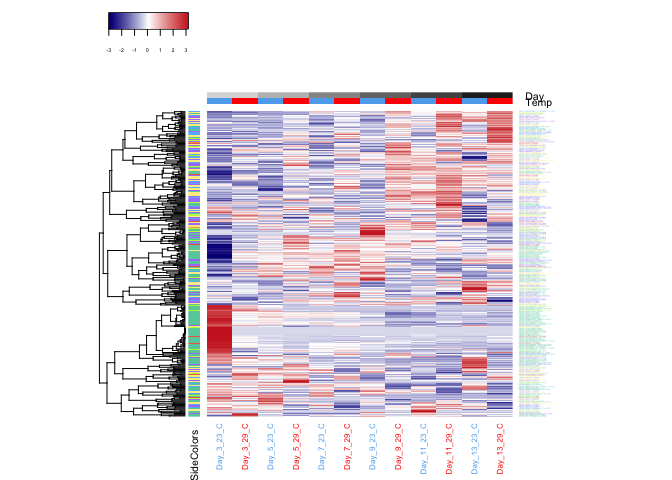
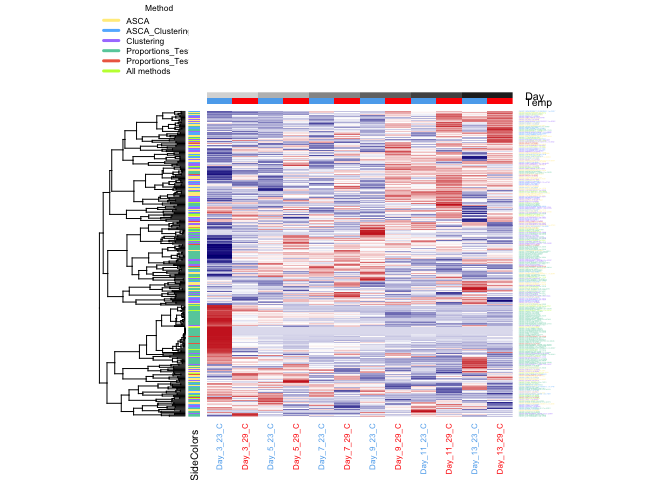
updated venn diagram and heatmap

Changed region(s): [[0.1562, 0.0, 0.2812, 0.1562]]

diff --git a/analysis/UniprotAnnotations_NetworkAnalysis/VerifyStatsProteinSelection/VerifyStatsProteinSelection_noDay0.md b/analysis/UniprotAnnotations_NetworkAnalysis/VerifyStatsProteinSelection/VerifyStatsProteinSelection_noDay0.md
@@ -97,50 +97,24 @@ read in and format avg NSAF data
 
 ![](VerifyStatsProteinSelection_noDay0_files/figure-markdown_github/unnamed-chunk-18-1.png)
 
-    ## quartz_off_screen 
-    ##                 2
+ordered by temperature then day ![](VerifyStatsProteinSelection_noDay0_files/figure-markdown_github/unnamed-chunk-19-1.png)
 
-ordered by temperature then day
+**CREATE HEATMAP OF ASCA SELECTED PROTEINS** ordered by day ![](VerifyStatsProteinSelection_noDay0_files/figure-markdown_github/unnamed-chunk-20-1.png)
 
-    ## quartz_off_screen 
-    ##                 2
+ordered by temp then day ![](VerifyStatsProteinSelection_noDay0_files/figure-markdown_github/unnamed-chunk-21-1.png)
 
-**CREATE HEATMAP OF ASCA SELECTED PROTEINS** ordered by day
+Abundance plots for ASCA selected proteins ![](VerifyStatsProteinSelection_noDay0_files/figure-markdown_github/unnamed-chunk-22-1.png)
 
-    ## quartz_off_screen 
-    ##                 2
+**CREATE HEATMAP OF CLUSTERING SELECTED PROTEINS** ordered by day ![](VerifyStatsProteinSelection_noDay0_files/figure-markdown_github/unnamed-chunk-23-1.png)
 
-ordered by temp then day
-
-    ## quartz_off_screen 
-    ##                 2
-
-Abundance plots for ASCA selected proteins
-
-**CREATE HEATMAP OF CLUSTERING SELECTED PROTEINS** ordered by day
-
-    ## quartz_off_screen 
-    ##                 2
-
-ordered by temp then day
-
-    ## quartz_off_screen 
-    ##                 2
-
-Abundance plots for cluster selected proteins
+ordered by temp then day ![](VerifyStatsProteinSelection_noDay0_files/figure-markdown_github/unnamed-chunk-24-1.png) Abundance plots for cluster selected proteins ![](VerifyStatsProteinSelection_noDay0_files/figure-markdown_github/unnamed-chunk-25-1.png)
 
 **CREATE HEATMAP OF PROP TEST SELECTED PROTEINS** Since prop test was on TOTNUMSPEC, I will plot those instead of NSAFs
 
 Read in and format TOTNUMSPEC data
 
-ordered by day
+ordered by day ![](VerifyStatsProteinSelection_noDay0_files/figure-markdown_github/unnamed-chunk-27-1.png)
 
-    ## quartz_off_screen 
-    ##                 2
+ordered by temp then day ![](VerifyStatsProteinSelection_noDay0_files/figure-markdown_github/unnamed-chunk-28-1.png)
 
-ordered by temp then day
-
-    ## quartz_off_screen 
-    ##                 2
-
-Abundance plots for proportions test selected proteins
+Abundance plots for proportions test selected proteins ![](VerifyStatsProteinSelection_noDay0_files/figure-markdown_github/unnamed-chunk-29-1.png)
